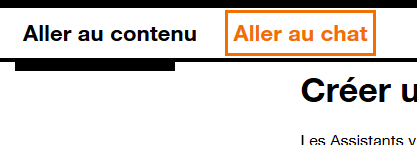
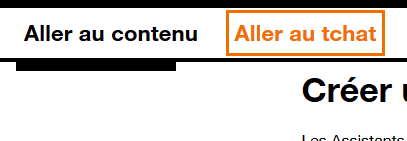
Update chatbot example

diff --git a/web/inputs/html/exemples/chatbot/index.html b/web/inputs/html/exemples/chatbot/index.html
@@ -31,23 +31,29 @@
 <body>
     <div id="skip-links" class="sr-only">
       <a class="skiplink" href="#content">Aller au contenu</a>
-      <a id="chatbot-skiplink"class="skiplink" href="#">Aller au chat</a>
+      <a id="chatbot-skiplink"class="skiplink" href="#">Aller au tchat</a>
     </div>
     <main id="content" class="container">
       <h1>Créer un chatbot accessible.</h1>
       
       <p>Les Assistants virtuels et les Chatbots sont de plus en plus nombreux sur les sites web. Malheureusement ils sont rarement accessibles à tous les utilisateurs. Paradoxalement ce sont les utilisateurs qui en auraient le plus besoin qui rencontrent souvent des difficultés à les utiliser.</p>
-<p>&nbsp;</p>
+<p>&nbsp;</p> 
       <h2>1. Les recommandations de la marque</h2>
 
-      <p>Cette article détaille un certain nombre de points techniques surlesquels il faut être vigilant. Si l'objectif est de développer un chatbot pour un site Orange, il convient en premier lieu de consulter les recommandations de la marque à ce sujet disponible sur le site : <a href="https://design.orange.com/guidelines/conversational-ui-0">design.orange.com</a>.</p>
+      <p>Cette article détaille un certain nombre de points techniques surlesquels il faut être vigilant. Si l'objectif est de développer un chatbot pour un site Orange, il convient en premier lieu de consulter les recommandations de la marque à ce sujet disponibles sur le site : <a href="https://design.orange.com/guidelines/conversational-ui-0">design.orange.com</a>.</p>
       
       <h2>2. Accéder au chatbot</h2>      
-      <p>La première action qui va être effectuée par l'utilisateur avant même d'utiliser le chatbot va être de le faire apparaitre si celui-ci n'est pas visible par défaut lorsque l'utilisateur consulte la page. Pour cela l'utilisateur doit se rendre contre rapidement qu'un chatbot est disponible, de plus il doit pouvoir y accéder simplement par exemple à l'aide d'un bouton dont le libellé devra être suffisamment explicite.</p>
+      <p>
+        La première action effectuée par l'utilisateur avant même d'utiliser le chatbot est de le faire apparaitre (dans le cas où celui-ci n'est pas visible par défaut). 
+        L'utilisateur doit être en mesure de découvrir la présence du chatbot sur la page, de plus il doit pouvoir y accéder simplement. Par exemple à l'aide d'un bouton dont le libellé devra être suffisamment explicite.
+      </p>
+
+      <p>
+        Ajouter un bouton permettant d'accéder au chatbot dans un coin de la page n'est pas suffisant. Il faut s'assurer que celui-ci soit accessible.
+      </p>
 
       <h3>Navigation au clavier</h3>        
-      <p>Ajouter un bouton permettant d'accéder au chatbot dans un coin de la page n'est pas suffisant. Il faut s'assurer que celui-ci soit accessible à l'aide du clavier pour les personnes qui ne peuvent utiliser une souris par exemple où celles qui utilisent un clavier physique 
-        pour naviguer sur leur mobile ou leur tablette (plus d'infos sur la <a href="../methodes-outils-clavier.html">navigaton à l'aide du clavier</a>). Pour cela utiliser par exemple un vrai bouton (balise <code>&lt;button&gt;</code>) au niveau du code, comme c'est le cas sur cette page (bouton contact situé en bas à droite de la page).
+      <p>Ce bouton doit être accessible à l'aide du clavier (plus d'infos sur la <a href="../methodes-outils-clavier.html">navigaton à l'aide du clavier</a>). Pour cela utiliser par exemple un vrai bouton (balise <code>&lt;button&gt;</code>) au niveau du code, comme c'est le cas sur cette page (bouton contact situé en bas à droite de la page).
       </p>
       <strong>Exemple :</strong>
       <p>
@@ -55,20 +61,23 @@
         le second bouton (réalisé à l'aide d'une balise <code>&ltspan&gt;</code>) n'est pas focusable. Dans ce cas l'utilisateur ne pourrait tout simplement pas ouvrir le chatbot.
       </p>        
       <p>
-          <button id="btnExemple1" class="btnChatbot">Contact</button><br><br>
-          <span id="btnExemple2" class="btnChatbot">Contact</span>
+          <ul class="btn-list">
+            <li><button id="btnExemple1" class="btnChatbot">Contact</button> : bouton focusable (balise <code>&lt;button&gt;</code>).</li>
+            <li><span id="btnExemple2" class="btnChatbot">Contact</span> : bouton non focusable (balise <code>&lt;span&gt;</code>).</li>
+          </ul>
+          <br>
       </p>
       
       <h3>Navigation au lecteur d'écran</h3>
       <p>
-        Si pour les utilisateurs qui voient l'écran, la présence d'un bouton pour accéder au chatbot en bas à droite de l'écran semble suffisant, les utilisateurs malvoyants qui 
-        naviguent avec un lecteur d'écran risque de passer à côté. En effet pour entendre ce bouton ils devront écouter la page en entier jusqu'à la dernière ligne.        
+        Si pour les utilisateurs qui voient l'écran, la présence d'un bouton pour accéder au chatbot en bas à droite de la page semble suffisant, les utilisateurs malvoyants qui 
+        naviguent avec un lecteur d'écran cela risque de poser des difficultés. En effet pour entendre ce bouton ils devront écouter la page en entier jusqu'à la dernière ligne (écouter le pied de pages et les nombreux liens qu'il contient...).
       </p>
       <p>
         Plusieurs solutions pour éviter ce problème sont disponibles :
         <ul>
           <li>Ajouter des liens d'évitement sur la page</li>
-          <li>Utiliser les landmark</li>
+          <li>Utiliser des landmarks ARIA</li>
           <li>Utiliser une balise de titre</li>
         </ul>
 
@@ -77,19 +86,21 @@
       <h4>Ajouter des liens d'évitement</h4>
       
       <p>Les liens d'évitement permettent d'accéder directement à une zone spécifique de la page. Ils sont inserés en haut de page et donc vocalisés en premier.
-        La présence d'un lien d'évitement permettant d'accéder directement au chatbot permettra d'en indiquer la présence à l'utilisateur.
+        La présence d'un lien d'évitement "accéder au tchat" permettant d'aller directement au chatbot permettra d'en indiquer la présence à l'utilisateur.
         Ces liens d'évitements peuvent être masqués à l'écran (<a href="../masquage/index.html">masquage accessible</a>).
       </p>
       <p>
         La présence des liens d'évitement est également positive pour les personnes qui naviguent au clavier. Par exemple sur la page que vous consultez actuelement des liens d'évitements sont disponibles. 
-        Ils masqués par défaut et deviennent visible à la prise du focus. Pour les faire apparaitre, vous pouvez cliquer dans la barre d'adresse de votre navigateur puis appuyer plusieurs fois sur la touche <code>TAB</code>.
+        Ils sont masqués par défaut et deviennent visibles à la prise du focus. Pour les faire apparaitre, vous pouvez cliquer dans la barre d'adresse de votre navigateur (pour positionner le focus en début de page) puis appuyer plusieurs fois sur la touche <code>TAB</code>.
       </p>
 
       <img class="screenshot" src="./images/skiplinks.png" alt="capture d'écran des liens d'évitements qui s'affichent sur cette page lors de la navigation au clavier">
 
       <p>
+        <br><br><br>
       Ajout d'un tabindex="0" sur #chat-content pour rendre le contenu défillable à l'aide du clavier (notamment pour chrome : fonctionne par défaut sur firefox).
       Gestion du title de la fenetre (utilisation de document.activeElement pour modifier le titre uniquement lorsque le focus n'est pas dans le champ du chat).
+      Ajouter du son
       </p>
 
       <p>&nbsp;</p>            

diff --git a/web/inputs/html/exemples/chatbot/style.css b/web/inputs/html/exemples/chatbot/style.css
@@ -239,3 +239,7 @@ button:focus, input[type=submit]:focus, div:focus, a:focus {
 .screenshot {
     border: .1rem solid #000;
 }
+
+.btn-list li {
+    margin-bottom: 1rem;
+}
